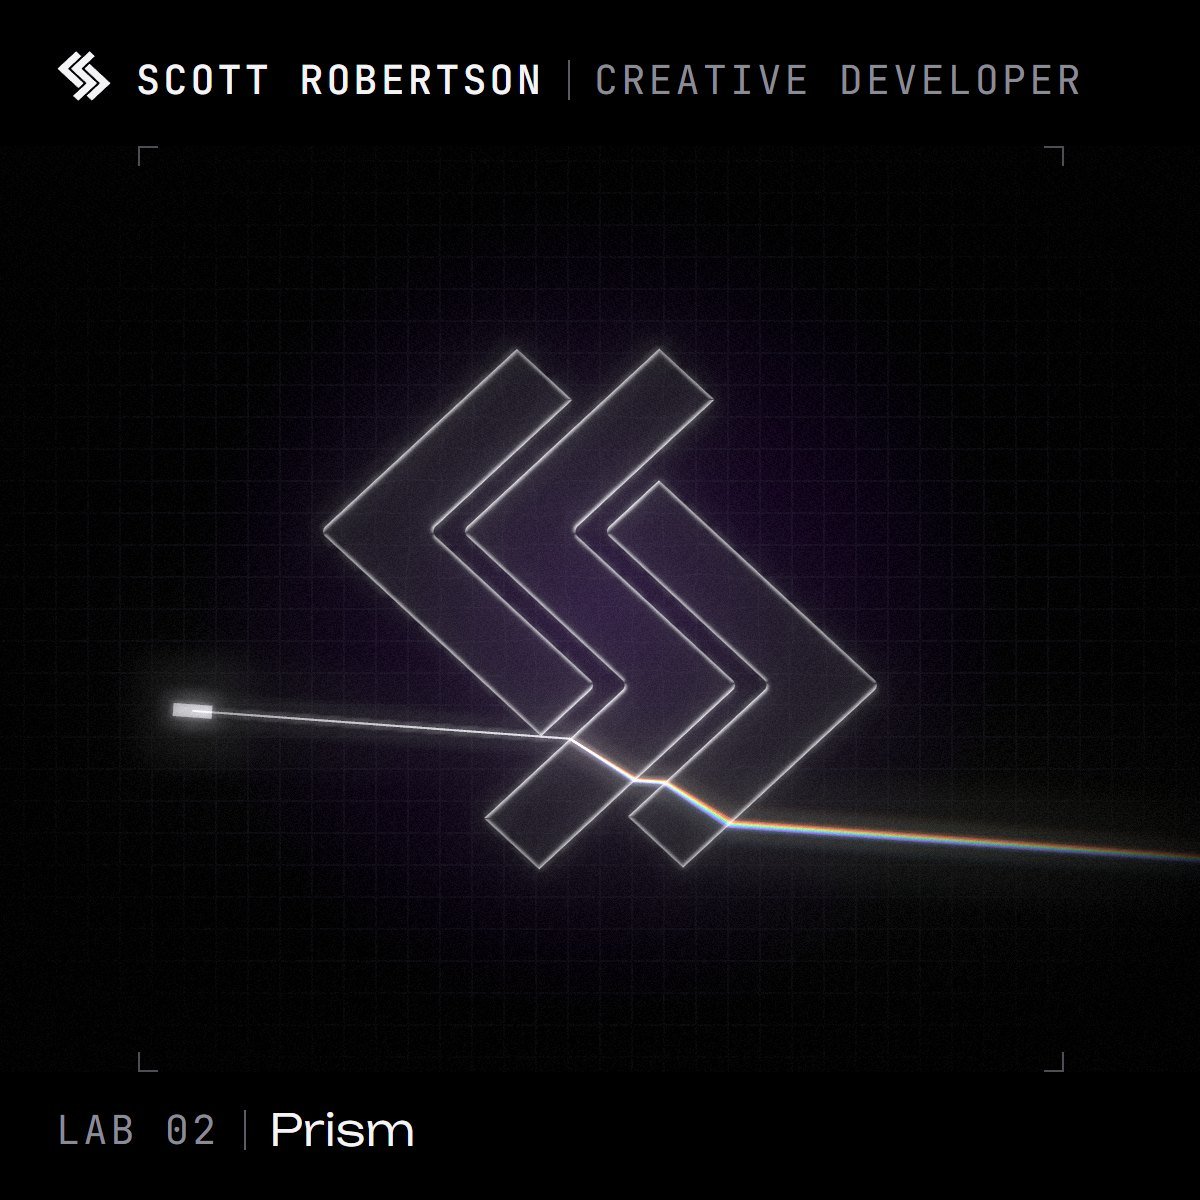
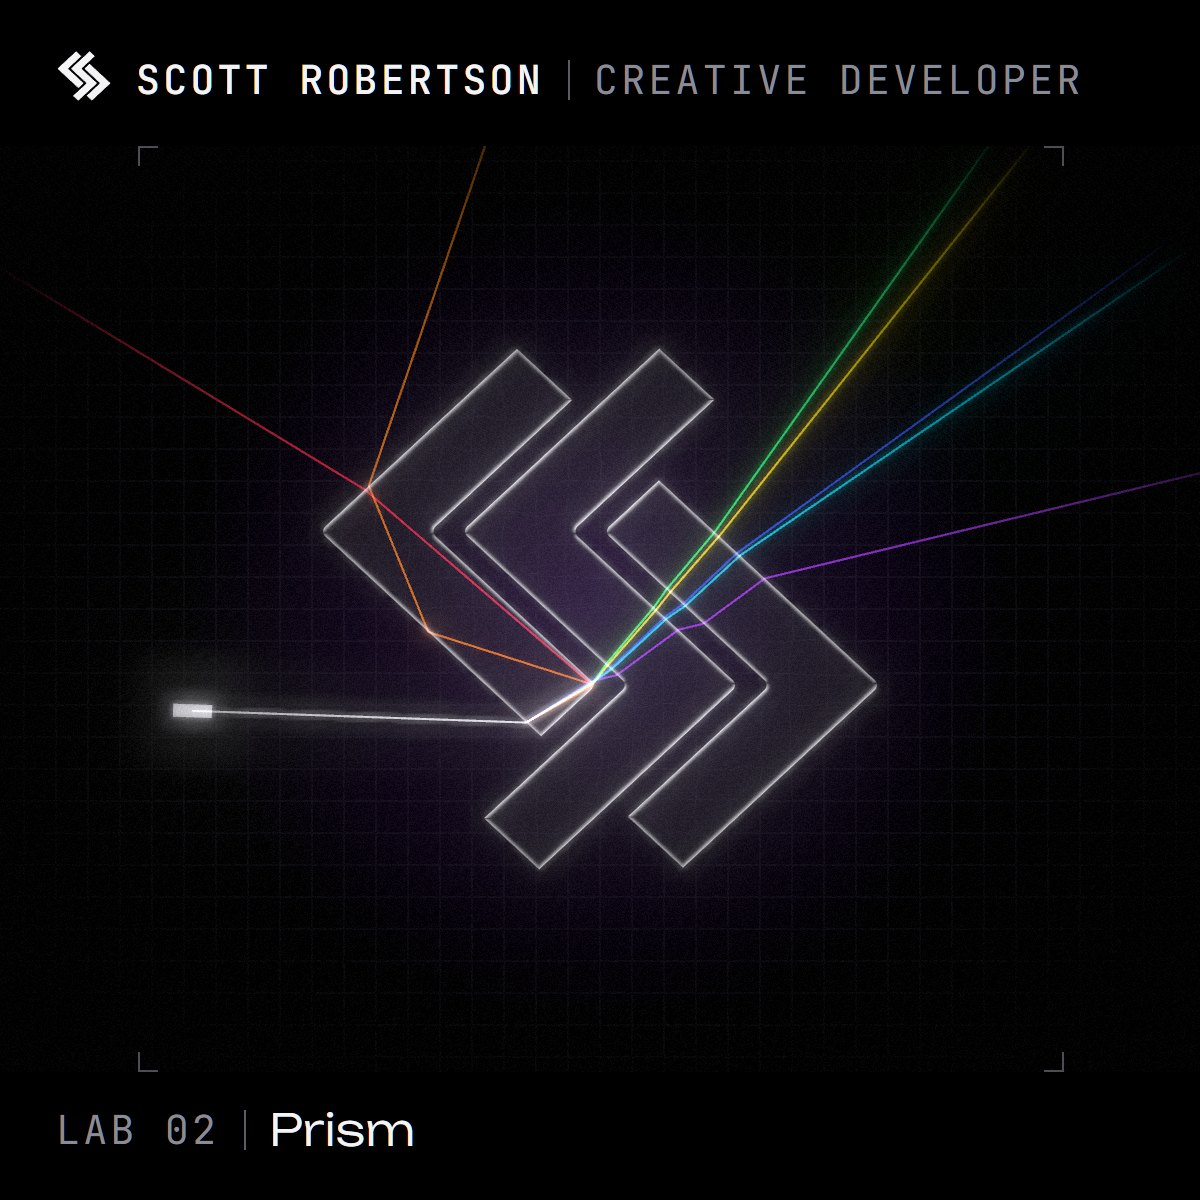
Prism share card: Scott's pick at 16 s, kept from plain reruns; TODO.md for the launch tasks

diff --git a/lab/prism/index.html b/lab/prism/index.html
@@ -13,7 +13,7 @@
 <meta property="og:title" content="Prism · Scott Robertson">
 <meta property="og:description" content="A laser crosses the logo from above. Each color bends at its own angle, and steep rays get trapped, bouncing around inside the glass.">
 <meta property="og:url" content="https://sc0ttr0berts0n.github.io/personal-site-2026/lab/prism/">
-<meta property="og:image" content="https://sc0ttr0berts0n.github.io/personal-site-2026/share/prism.jpg?v=a8ea91ff">
+<meta property="og:image" content="https://sc0ttr0berts0n.github.io/personal-site-2026/share/prism.jpg?v=1b259d4a">
 <meta property="og:image:width" content="1200">
 <meta property="og:image:height" content="1200">
 <meta property="og:image:alt" content="Prism, lab 02 by Scott Robertson">

diff --git a/site/config.js b/site/config.js
@@ -43,9 +43,9 @@ export const SITE_URL = 'https://sc0ttr0berts0n.github.io/personal-site-2026/';
 
 // Share cards (npm run share): how long each toy runs before its picture is taken, in ms. Default 6000.
 // Neon Oil needs its shader compiled first, and at 34 s the logo is coated in oil, mid-drip.
-export const SHARE_AT = { fluid: 22000, goop: 34000, knockout: 4000 };
+export const SHARE_AT = { fluid: 22000, prism: 16000, goop: 34000, knockout: 4000 };
 // Scott picked these frames by eye, and they never run quite the same way twice: a plain run leaves them alone.
-export const SHARE_KEEP = ['fluid', 'goop', 'knockout'];
+export const SHARE_KEEP = ['fluid', 'prism', 'goop', 'knockout'];
 
 export const ARTIST = {
   name: 'Scott Robertson',

diff --git a/TODO.md b/TODO.md
@@ -1,0 +1,12 @@
+# To do
+
+Open tasks for the site. When one is done, delete it and say so in the commit.
+
+## Launch blockers
+
+- **Point scottrobertson.dev at the new site.** The domain still serves the old Bluehost site. Once it moves, change `SITE_URL` in `site/config.js` and run `npm run share -- --pages` so share previews point at the new address.
+- **Make scott@scottrobertson.dev receive mail.** It's on the artist card but doesn't work yet. Plan: switch the domain's nameservers from Bluehost to Namecheap BasicDNS and add a redirect to Gmail. Check Bluehost's DNS for records worth keeping first.
+
+## After launch
+
+- **Reply as scott@scottrobertson.dev.** Forwarding only receives. In Gmail, Settings › Accounts › "Send mail as", add the address and send through `smtp.gmail.com` with a Google app password. That's free, but some mail may show "via gmail.com" or land in spam, so add Google to the domain's SPF record (`include:_spf.google.com`) and add a DMARC record. Fully hosted mail on the domain (Google Workspace) is paid.
